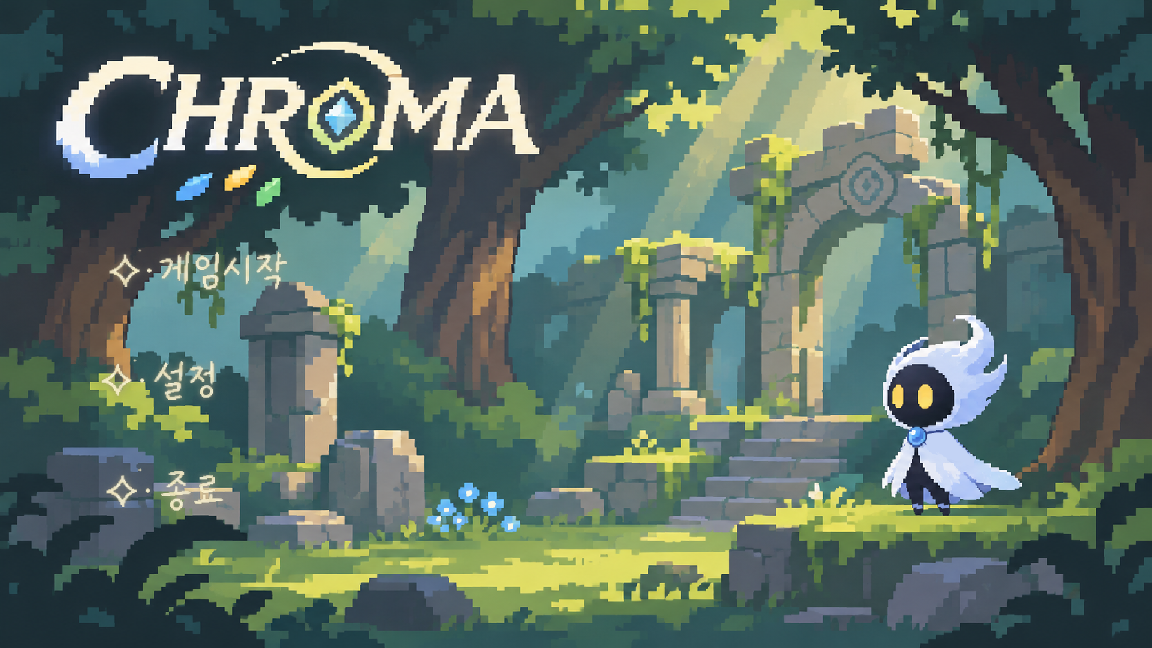
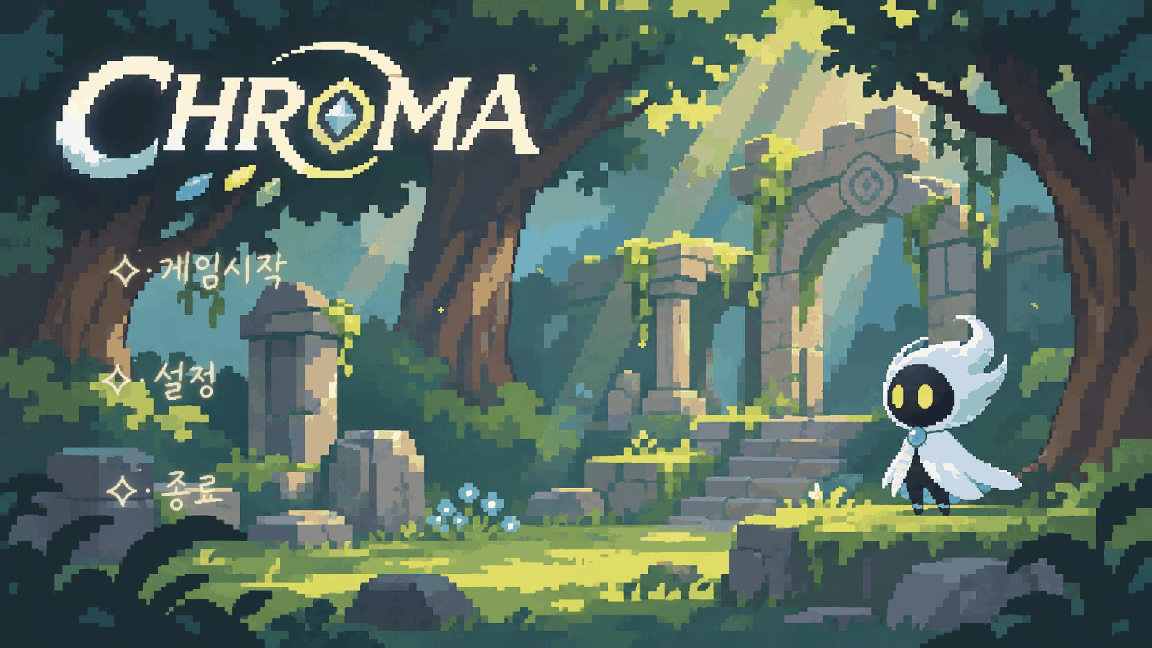
타이틀 화면 수정

diff --git a/code/title.py b/code/title.py
@@ -1,5 +1,9 @@
 """Title menus using the two rows of the supplied button sprite sheet."""
 
+from bisect import bisect_right
+from itertools import accumulate
+import json
+
 import pico2d
 
 from .settings import IMAGE_ROOT, SCREEN_HEIGHT, SCREEN_WIDTH
@@ -21,10 +25,21 @@ class TitleScreen:
     FRAME_HEIGHT = 175
 
     def __init__(self):
-        self.background = pico2d.load_image(str(IMAGE_ROOT / 'ui/title.png'))
+        ui = IMAGE_ROOT / 'ui'
+        self.animation = json.loads((ui / 'title_frames.json').read_text(encoding='utf-8'))
+        self.backgrounds = [pico2d.load_image(str(ui / path)) for path in self.animation['paths']]
+        self.frame_ends = [round(end, 9) for end in accumulate(self.animation['durations'])]
+        self.time = 0.0
         self.sheet = pico2d.load_image(str(IMAGE_ROOT / 'ui/title_select.webp'))
         self.menu = 'main'
         self.mouse = None
+
+    @property
+    def frame(self):
+        return bisect_right(self.frame_ends, round(self.time, 9)) % len(self.frame_ends)
+
+    def update(self, dt):
+        self.time = (self.time + dt) % self.frame_ends[-1]
 
     @property
     def buttons(self):
@@ -66,7 +81,12 @@ class TitleScreen:
         return None
 
     def draw(self):
-        self.background.draw(SCREEN_WIDTH / 2, SCREEN_HEIGHT / 2,
+        atlas, local = divmod(self.frame, self.animation['per_sheet'])
+        row, column = divmod(local, self.animation['columns'])
+        width, height = self.animation['width'], self.animation['height']
+        background = self.backgrounds[atlas]
+        background.clip_draw(column * width, background.h - (row + 1) * height,
+                             width, height, SCREEN_WIDTH / 2, SCREEN_HEIGHT / 2,
                              SCREEN_WIDTH, SCREEN_HEIGHT)
         hovered = self.hovered
         for name in self.buttons:

diff --git a/tools/prepare_title.py b/tools/prepare_title.py
@@ -1,0 +1,38 @@
+"""Pack title.gif into bounded PNG atlases for animated pico2d playback."""
+import json
+from pathlib import Path
+
+from PIL import Image
+
+
+def main():
+    ui = Path(__file__).resolve().parent.parent / 'image/ui'
+    output = ui / 'title_frames'
+    output.mkdir(exist_ok=True)
+    width, height = 1152, 648
+    columns, per_sheet = 3, 12
+    durations, paths = [], []
+    with Image.open(ui / 'title.gif') as source:
+        for start in range(0, source.n_frames, per_sheet):
+            count = min(per_sheet, source.n_frames - start)
+            rows = (count + columns - 1) // columns
+            atlas = Image.new('RGB', (width * columns, height * rows))
+            for local in range(count):
+                source.seek(start + local)
+                frame = source.convert('RGBA')
+                background = Image.new('RGBA', source.size, (0, 0, 0, 255))
+                background.alpha_composite(frame)
+                frame = background.convert('RGB').resize((width, height), Image.Resampling.NEAREST)
+                row, column = divmod(local, columns)
+                atlas.paste(frame, (column * width, row * height))
+                durations.append(max(10, source.info.get('duration', 100)) / 1000)
+            filename = f'title_frames/atlas_{len(paths):02}.png'
+            atlas.save(ui / filename)
+            paths.append(filename)
+    metadata = dict(width=width, height=height, columns=columns,
+                    per_sheet=per_sheet, paths=paths, durations=durations)
+    (ui / 'title_frames.json').write_text(json.dumps(metadata), encoding='utf-8')
+
+
+if __name__ == '__main__':
+    main()

diff --git a/tests/test_title.py b/tests/test_title.py
@@ -10,7 +10,7 @@ from code.title import TitleScreen
 
 class TitleTests(unittest.TestCase):
     def setUp(self):
-        with patch('pico2d.load_image', return_value=Mock(h=887)):
+        with patch('pico2d.load_image', side_effect=lambda path: Mock(h=887)):
             self.title = TitleScreen()
 
     def point(self, name, event_type=pico2d.SDL_MOUSEBUTTONDOWN,
@@ -54,6 +54,20 @@ class TitleTests(unittest.TestCase):
              patch.object(main, 'TitleScreen'), patch.object(main, 'Level') as level:
             main.main()
         level.assert_not_called()
+
+    def test_gif_plays_all_frames_across_atlases_then_loops(self):
+        metadata = self.title.animation
+        for frame, duration in enumerate(metadata['durations']):
+            self.assertEqual(self.title.frame, frame)
+            self.title.draw()
+            atlas, local = divmod(frame, metadata['per_sheet'])
+            row, column = divmod(local, metadata['columns'])
+            args = self.title.backgrounds[atlas].clip_draw.call_args.args
+            self.assertEqual(args[:4], (column * metadata['width'],
+                             887 - (row + 1) * metadata['height'],
+                             metadata['width'], metadata['height']))
+            self.title.update(duration)
+        self.assertEqual(self.title.frame, 0)
 
 
 if __name__ == '__main__':

diff --git a/main.py b/main.py
@@ -83,6 +83,8 @@ def main():
                     player.handle_event(event)
             if not running:
                 break
+            if title is not None:
+                title.update(dt)
             if loading is not None:
                 if loading.needs_level:
                     level = Level()

diff --git a/README.md b/README.md
@@ -3,7 +3,8 @@
 프로젝트 루트에서 python main.py로 실행합니다. Python, pico2d가 필요합니다.
 전체화면 16:9로 시작합니다.
 
-실행하면 추가한 title.png 타이틀 화면이 먼저 표시됩니다. 제목 아래 왼쪽에 게임 시작, 설정, 종료 버튼을 세로로 배치했습니다.
+실행하면 title.gif의 애니메이션이 원본 프레임 간격에 맞춰 반복되는 타이틀 화면이 먼저 표시됩니다. 제목 아래 왼쪽에 게임 시작, 설정, 종료 버튼을 세로로 배치했습니다.
+타이틀은 설정창 뒤와 로딩 페이드아웃 중에도 계속 재생됩니다. GIF를 교체하면 `python tools/prepare_title.py`로 pico2d용 프레임 시트와 시간 정보를 다시 생성합니다(Pillow 필요).
 버튼은 title_select.webp의 위쪽 이미지를 기본으로 사용하고 마우스를 올리면 아래쪽 이미지로 바뀝니다.
 게임 시작을 누르면 같은 위치에 새 게임, 불러오기가 표시되며 새 게임을 누르면 사원 튜토리얼이 시작됩니다.
 하위 메뉴에서 ESC를 누르면 메인 메뉴로 돌아갑니다. 종료 버튼은 게임을 닫습니다.
